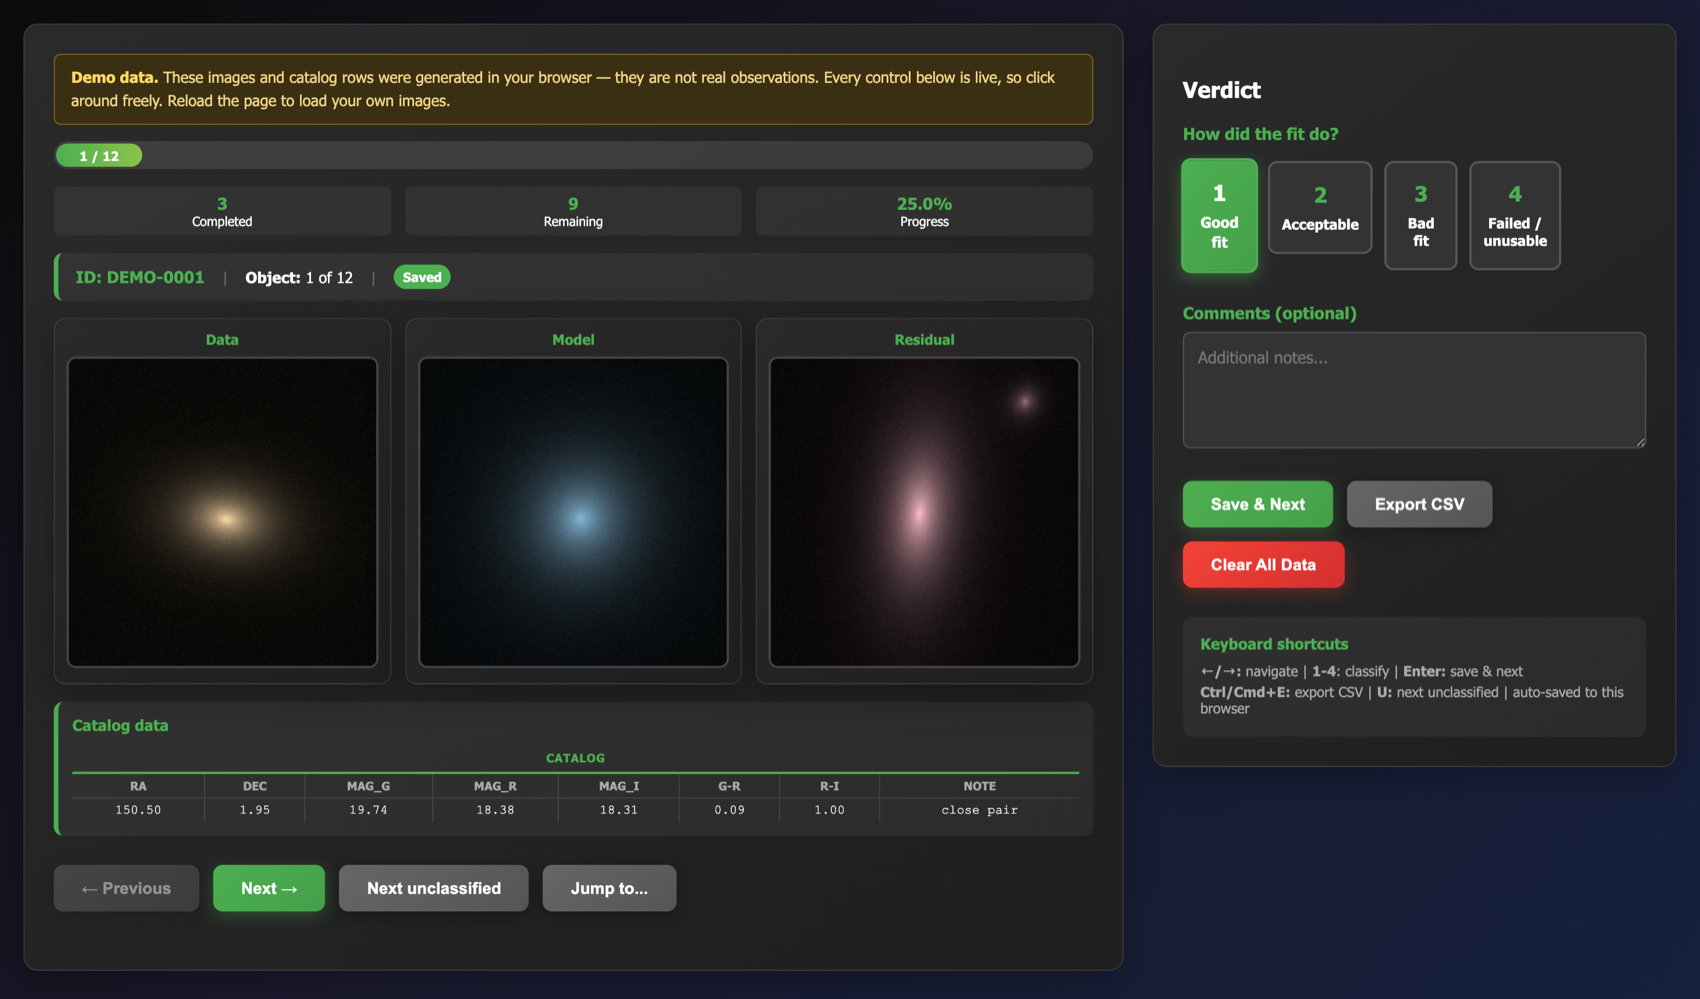
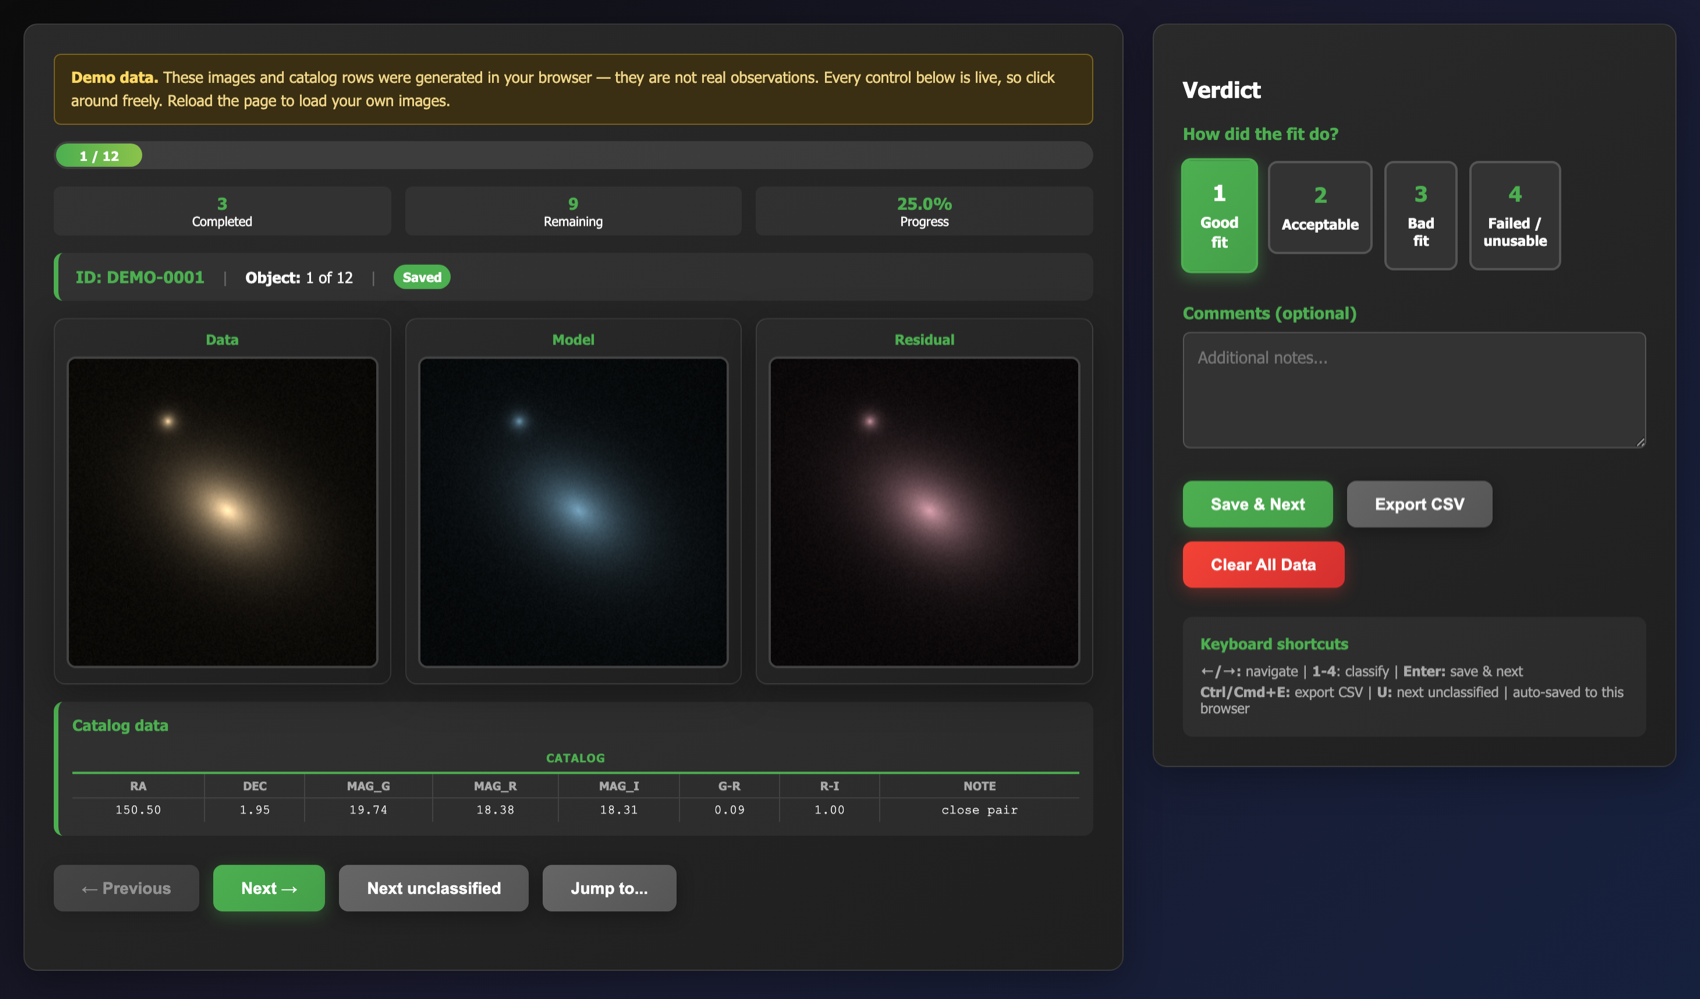
Demo: every panel of an object shows the same source
The generator seeded its PRNG from (id, panelIndex), so each panel invented
its own galaxy - different position, ellipticity, position angle and
neighbours. Side by side they read as three unrelated objects, which is the
opposite of what the tool is for.

Geometry now comes from demoScene(id), seeded from the object ID alone and
shared by every panel. Per-panel variation is limited to what genuinely
differs between bands or renderings: tint, a flux scaling, a seeing factor,
and an independent noise realisation. Neighbours are also placed relative to
the frame centre so they stay in view.

Verified by flux-weighted centroid: panels of the same object now agree to
within 2 px of 260, the residual coming from per-band flux reweighting the
companion.

diff --git a/index.html b/index.html
@@ -1165,39 +1165,63 @@
         };
     }
 
-    // An exponential-profile blob or two on a noisy sky, tinted per panel.
-    function demoImage(id, panelIndex) {
-        const size = 260;
+    const DEMO_SIZE = 260;
+
+    // The scene - where the sources are and what shape they have. Seeded from the
+    // object ID alone, so every panel of an object shows the SAME source: only
+    // colour, depth and noise change from panel to panel, as they would between
+    // bands or between a data and a model rendering.
+    function demoScene(id) {
+        const rand = seededRandom("scene:" + id);
+        const size = DEMO_SIZE;
+        const sources = [{
+            x: size / 2 + (rand() - 0.5) * 12,
+            y: size / 2 + (rand() - 0.5) * 12,
+            scale: 20 + rand() * 22,
+            peak: 175 + rand() * 80,
+            q: 0.45 + rand() * 0.5,
+            pa: rand() * Math.PI
+        }];
+        const neighbours = Math.floor(rand() * 3);
+        for (let i = 0; i < neighbours; i++) {
+            const angle = rand() * 2 * Math.PI;
+            const radius = 45 + rand() * 70;
+            sources.push({
+                x: size / 2 + Math.cos(angle) * radius,
+                y: size / 2 + Math.sin(angle) * radius,
+                scale: 3 + rand() * 6,
+                peak: 90 + rand() * 140,
+                q: 0.85 + rand() * 0.15,
+                pa: rand() * Math.PI
+            });
+        }
+        return sources;
+    }
+
+    // Renders one panel of a scene: same geometry, its own tint, flux scaling,
+    // seeing and noise realisation.
+    function demoImage(scene, id, panelIndex) {
+        const size = DEMO_SIZE;
         const canvas = document.createElement("canvas");
         canvas.width = canvas.height = size;
         const ctx = canvas.getContext("2d");
         const image = ctx.createImageData(size, size);
-        const rand = seededRandom(id + ":" + panelIndex);
-        const tint = DEMO_TINTS[panelIndex % DEMO_TINTS.length];
 
-        const sources = [{
-            x: size / 2 + (rand() - 0.5) * 12, y: size / 2 + (rand() - 0.5) * 12,
-            scale: 20 + rand() * 22, peak: 175 + rand() * 80,
-            q: 0.45 + rand() * 0.5, pa: rand() * Math.PI
-        }];
-        const neighbours = Math.floor(rand() * 3);
-        for (let i = 0; i < neighbours; i++) {
-            sources.push({
-                x: rand() * size, y: rand() * size,
-                scale: 3 + rand() * 6, peak: 90 + rand() * 140,
-                q: 0.85 + rand() * 0.15, pa: rand() * Math.PI
-            });
-        }
+        const look = seededRandom("panel:" + id + ":" + panelIndex);
+        const tint = DEMO_TINTS[panelIndex % DEMO_TINTS.length];
+        const flux = 0.75 + look() * 0.55;   // this band is brighter or fainter
+        const seeing = 0.95 + look() * 0.35;  // and a little sharper or blurrier
+        const noise = seededRandom("noise:" + id + ":" + panelIndex);
 
         for (let y = 0; y < size; y++) {
             for (let x = 0; x < size; x++) {
-                let v = 5 + rand() * 11;
-                for (const s of sources) {
+                let v = 5 + noise() * 11;
+                for (const s of scene) {
                     const dx = x - s.x, dy = y - s.y;
                     const cos = Math.cos(s.pa), sin = Math.sin(s.pa);
                     const u = dx * cos + dy * sin;
                     const w = (-dx * sin + dy * cos) / s.q;
-                    v += s.peak * Math.exp(-Math.sqrt(u * u + w * w) / s.scale);
+                    v += s.peak * flux * Math.exp(-Math.sqrt(u * u + w * w) / (s.scale * seeing));
                 }
                 const o = (y * size + x) * 4;
                 image.data[o] = Math.min(255, v * tint[0]);
@@ -1236,8 +1260,9 @@
 
         for (let i = 1; i <= DEMO_COUNT; i++) {
             const id = "DEMO-" + String(i).padStart(4, "0");
+            const scene = demoScene(id);
             const urls = {};
-            CONFIG.panels.forEach((p, pi) => { urls[p.key] = demoImage(id, pi); });
+            CONFIG.panels.forEach((p, pi) => { urls[p.key] = demoImage(scene, id, pi); });
             objects.push({ id: id, urls: urls });
 
             const rand = seededRandom("catalog:" + id);
